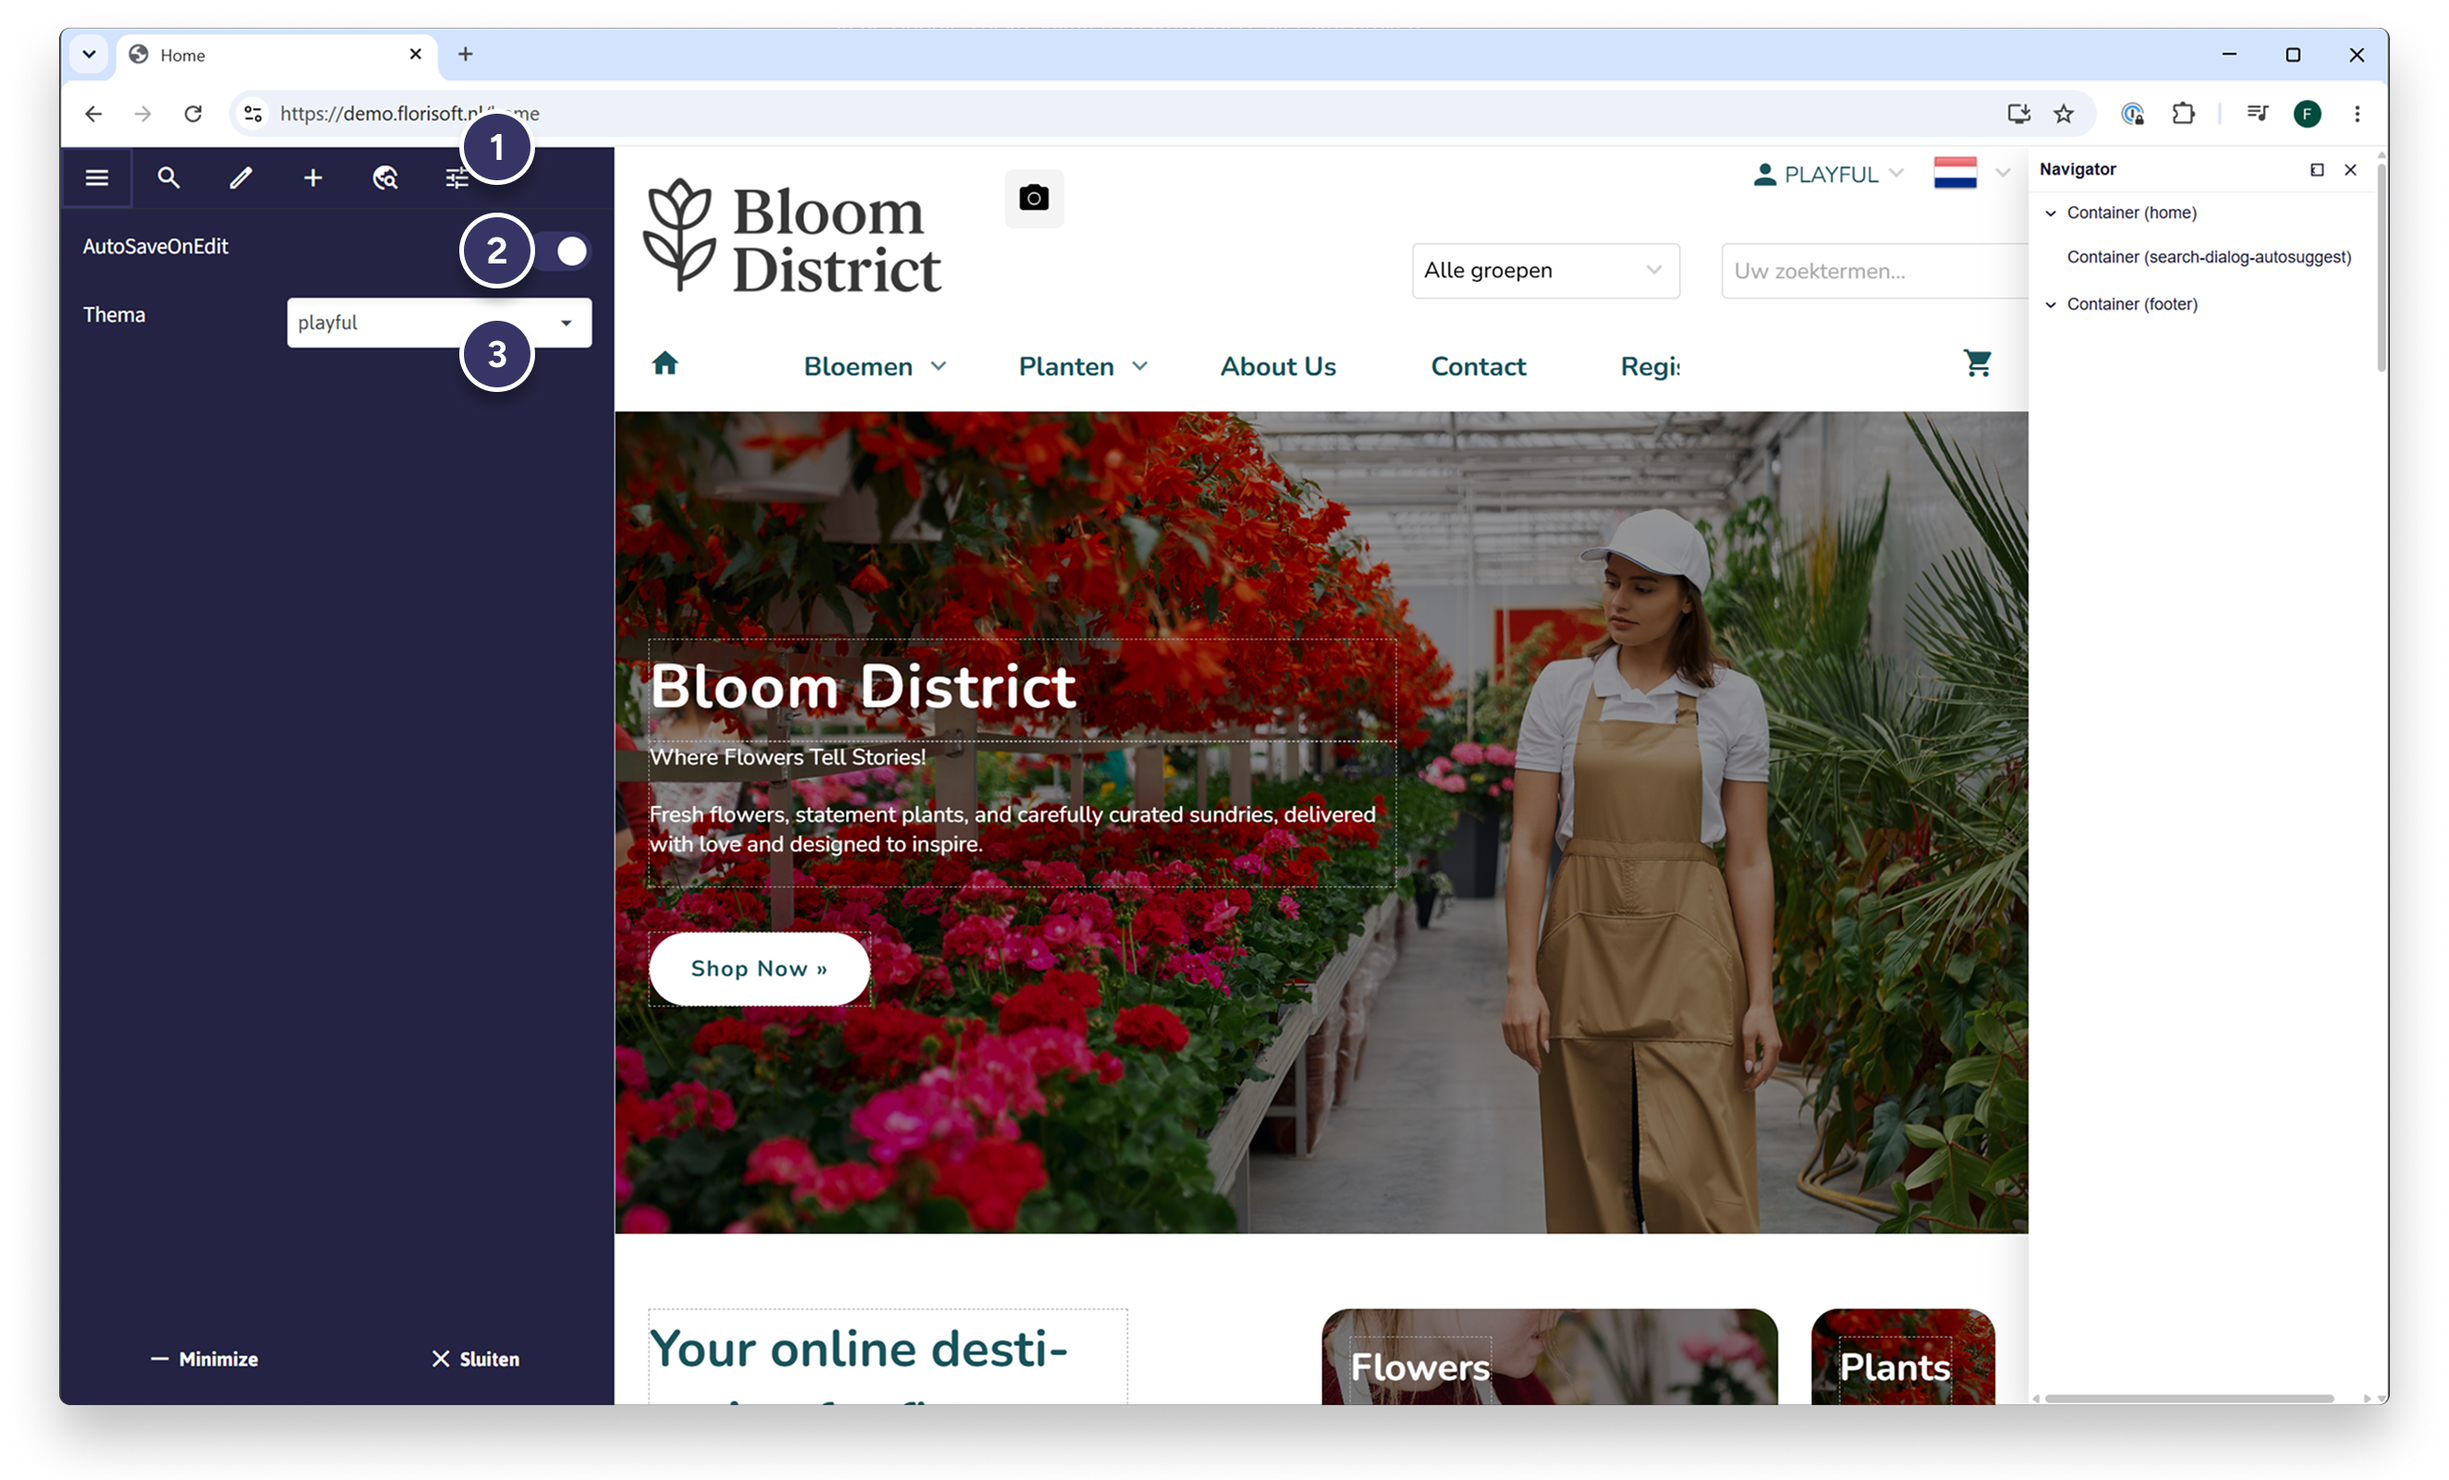
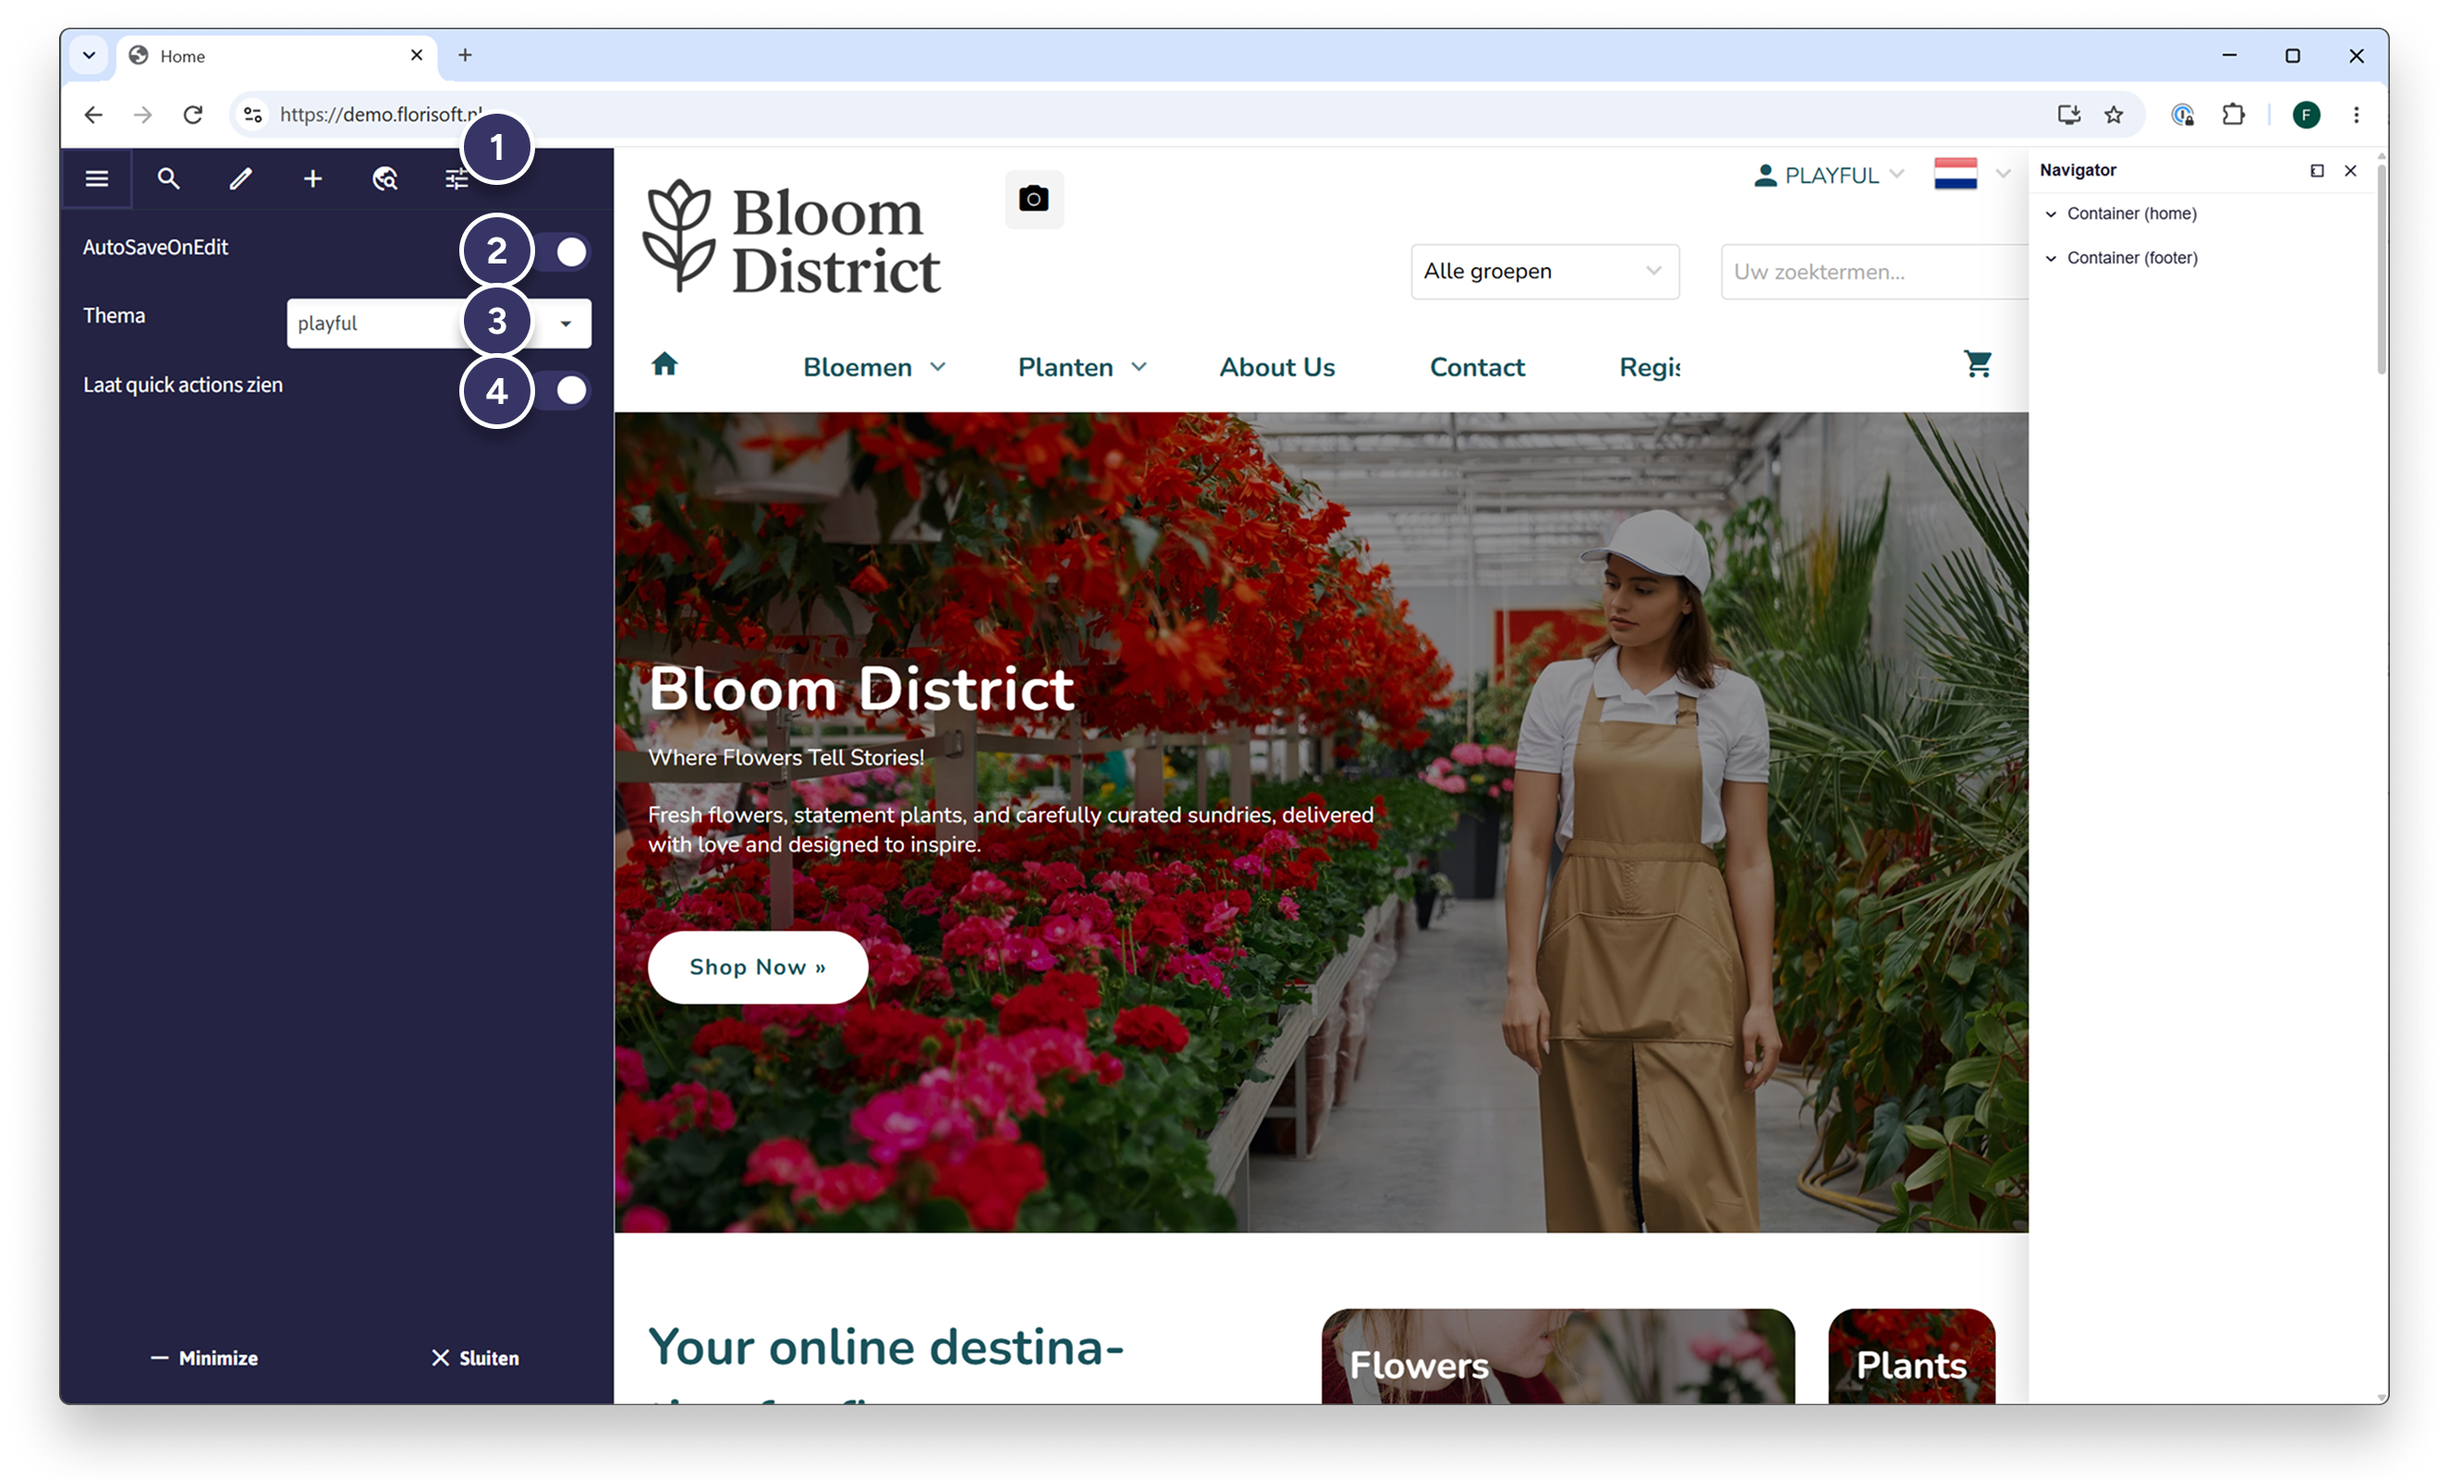
[CMS] Preferences manual update

diff --git a/FLORISHOP MANUALS/CMS/CMS 2.0 Manual - EN.md b/FLORISHOP MANUALS/CMS/CMS 2.0 Manual - EN.md
@@ -559,11 +559,11 @@ To make your pages more easily discoverable in Google, you can configure SEO set
 
 #### Preferences
 
-In this tab, you can configure the [Editor](#editor) according to your personal preferences.
+You can use this tab to configure the [Editor](#editor) according to your personal preferences.
 
-| Step | Explanation |
+| Step | Description |
 |:--|:--|
-| **1** | Under **Preferences** (1), you can enable or disable the **AutoSaveOnEdit** function (2). This function is enabled by default, ensuring that draft changes are automatically saved. Using the dropdown menu (3), you can easily switch between different [themes](#theme-configuration) and then make changes within another theme.<details><summary><b>Click here for the example image</b></summary><img src="media/22.1.png"></details> |
+| **1** | Under **Preferences** (1), you can enable or disable the **AutoSaveOnEdit** feature (2). This feature is enabled by default, so draft changes are saved automatically. Use the dropdown menu (3) to easily switch between different [themes](#theme-configuration) and make changes within another theme. Use the **Show quick actions** toggle (4) to determine whether the add buttons are visible in the [Editor](#editor).<details><summary><b>Click here for the example image</b></summary><img src="media/22.1.png"></details> |
 
 ---
 

diff --git a/FLORISHOP MANUALS/CMS/CMS 2.0 Manual - NL.md b/FLORISHOP MANUALS/CMS/CMS 2.0 Manual - NL.md
@@ -559,7 +559,7 @@ Via deze tab kun je de [Editor](#editor) naar jouw persoonlijke voorkeuren confi
 
 | Stap | Uitleg |
 |:--|:--|
-| **1** | Via **Voorkeuren** (1) kun je de functie **AutoSaveOnEdit** in- of uitschakelen (2). Deze functie is standaard ingeschakeld, zodat conceptwijzigingen automatisch worden opgeslagen. Via het dropdownmenu (3) kun je eenvoudig wisselen tussen verschillende [thema's](#thema-configuratie) om vervolgens wijzigingen binnen een ander thema door te voeren.<details><summary><b>Klik hier voor de voorbeeldafbeelding</b></summary><img src="media/22.1.png"></details> |
+| **1** | Via **Voorkeuren** (1) kun je de functie **AutoSaveOnEdit** in- of uitschakelen (2). Deze functie is standaard ingeschakeld, zodat conceptwijzigingen automatisch worden opgeslagen. Via het dropdownmenu (3) kun je eenvoudig wisselen tussen verschillende [thema's](#thema-configuratie) om vervolgens wijzigingen binnen een ander thema door te voeren. Met de schakelaar **Laat quick actions zien** (4) bepaal je of de toevoegknoppen wel of niet zichtbaar zijn in de [Editor](#editor).<details><summary><b>Klik hier voor de voorbeeldafbeelding</b></summary><img src="media/22.1.png"></details> |
 
 ---
 
